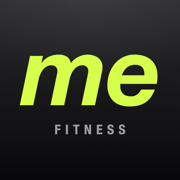
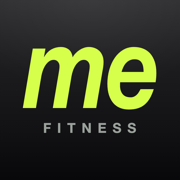
图标：同字体同构图，只换 FITNESS

diff --git a/tools/icon.html b/tools/icon.html
@@ -10,17 +10,18 @@
       linear-gradient(180deg,#303033 0%,#1C1C1E 38%,#121214 72%,#08080A 100%);
   }
   .me{
-    font-family:"HelveticaNeue-CondensedBlack","Helvetica Neue",Helvetica,sans-serif;
-    font-style:italic;font-weight:900;
-    font-size:545px;line-height:.72;letter-spacing:-.01em;
+    font-family:"Helvetica Neue",Helvetica,sans-serif;
+    font-style:italic;font-weight:700;
+    font-size:657px;line-height:.72;letter-spacing:-.02em;
     color:#d6ff4b;margin:0 0 58px 6px;
-    transform:translateY(-52px);
+    transform:translate(2px,-77px) scaleX(.81);
   }
   .sub{
-    font-family:"HelveticaNeue-CondensedBold","Helvetica Neue",Helvetica,sans-serif;
-    font-weight:700;font-size:76px;line-height:1;
-    letter-spacing:.34em;color:#9aa19b;
-    margin-left:.34em;
+    font-family:"Helvetica Neue",Helvetica,sans-serif;
+    font-weight:700;font-size:78px;line-height:1;
+    letter-spacing:.44em;color:#9aa19b;
+    margin-left:.44em;
+    transform:translate(-2px,-50px);
   }
 </style></head>
 <body>
